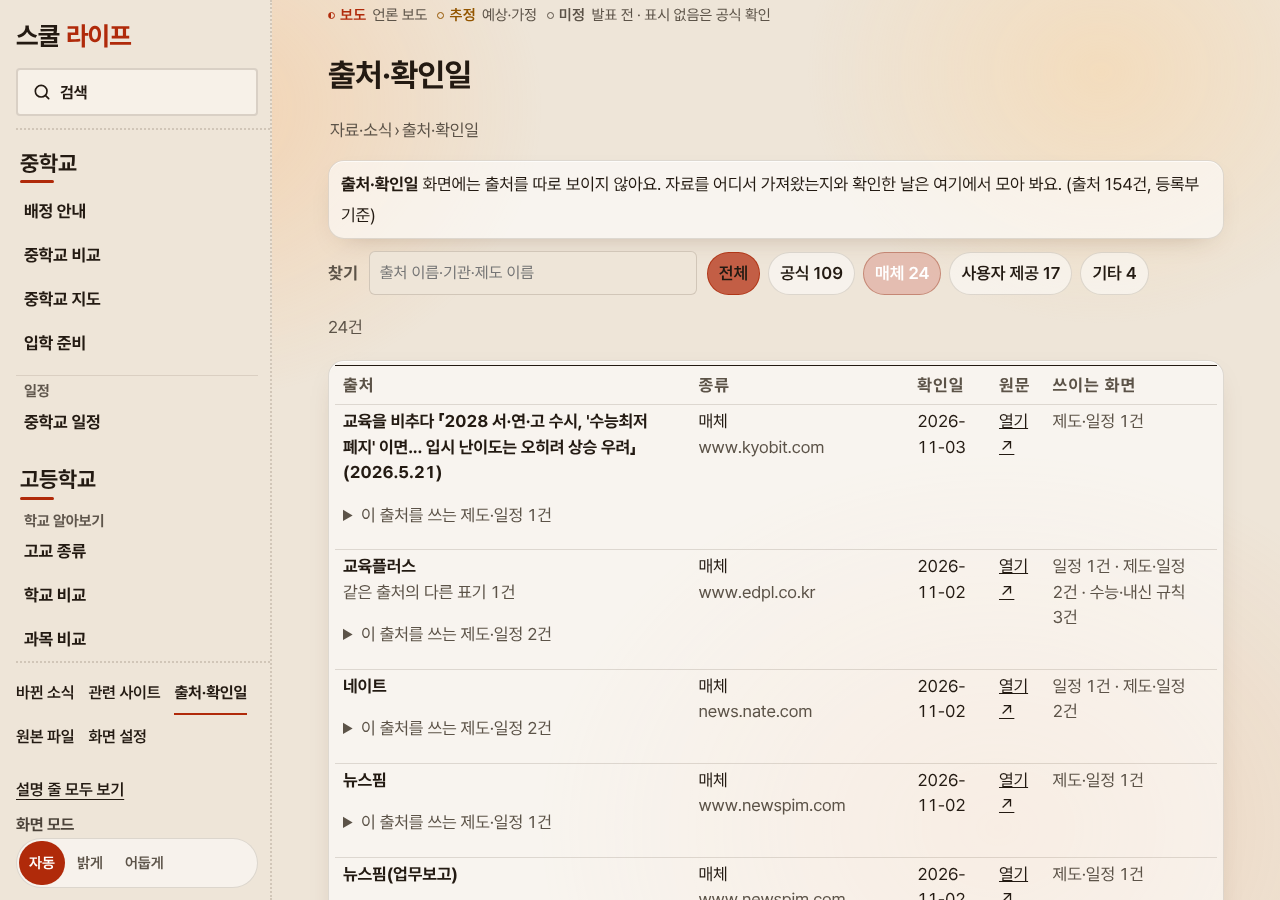
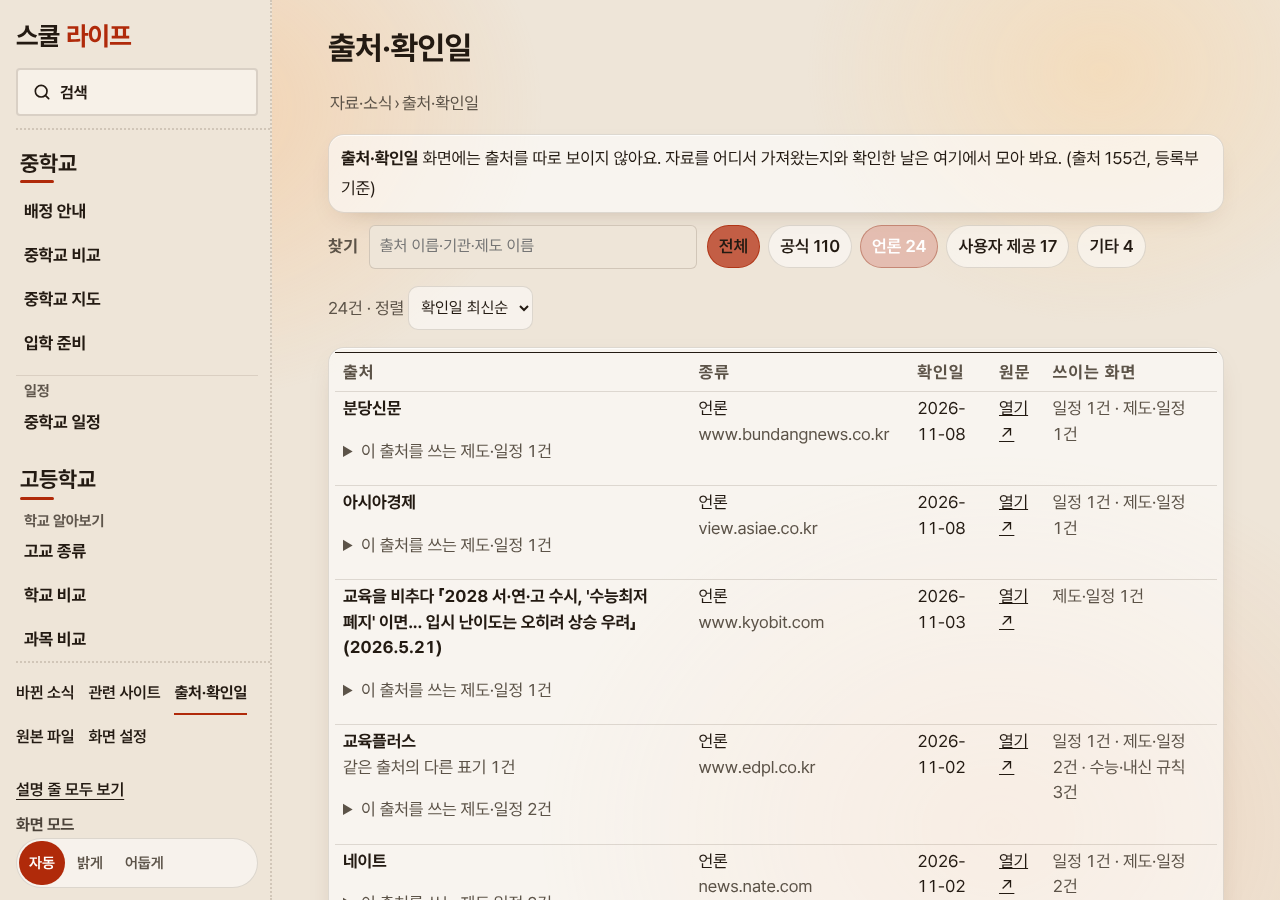
37차 A·C·D: 범례 줄 제거, 새 홈에 맞춘 검색 안내, 조사일 안내 상자 제거, 검색 오탐(어미·의학교·중학교 비교), 중학교 비교 13교 기본, 서랍 펼침, 출처 화면 라벨·정렬
Claude-Session: https://claude.ai/code/session_01GSdmVHRs72wJk6Q9aMyjCK

diff --git a/portal/search-extra.js b/portal/search-extra.js
@@ -74,7 +74,7 @@ export const GAPS = [
   { id: "adiga-link", q: "^(?!.*(맛|분식|먹|식당|카페|학원|가르)).*(어디가|adiga)", words: "어디가 링크 대입정보포털 어디가 adiga 대입 정보 포털", found: () => ({ href: "#library/links", hl: "어디가", t: "대입정보포털 어디가(외부 링크)", s: "대학별 모집요강·입시 결과를 모아 둔 공식 포털이에요. 외부 링크 모음에서 바로 열어요" }) },
   { id: "hsbf-event", q: "(외대부고|외국어대학교부설|용인외대).*(설명회|입학설명)", words: "외대부고 설명회 용인외대부고 입학설명회 외국어대학교부설 설명회 본교 설명회", found: (D) => row(D, "gg-22") && { href: "#select/curriculum?v=hs&ty=1", hl: row(D, "gg-22").title, t: row(D, "gg-22").title, s: firstSent(row(D, "gg-22").body, 100) } },
   { id: "hs-briefing-dates", q: "입학설명회.*(일정|언제|날짜|궁금)|(일정|언제).*입학설명회|설명회.*(일정|언제|날짜)", words: "입학설명회 일정 고교 입학설명회 설명회 날짜 설명회 언제 학교별 입학설명회", found: (D) => row(D, "gg-22") && { href: "#select/curriculum?v=hs&ty=1", hl: row(D, "gg-22").title, t: row(D, "gg-22").title, s: firstSent(row(D, "gg-22").body, 100) } },
-  { id: "csat-date", q: "^(?!.*(초6|초등|2033|2032|2027|2028|2029|2031|2034|성적)).*수능.*(날짜|언제|며칠|시행일|몇 ?월)", words: "수능 날짜 수능 언제 수능 시행일 수능 며칠 수능 일정", found: () => ({ href: "#home?open=soonp", t: "수능 D-day(홈)", s: "홈에서 수능까지 남은 날을 볼 수 있어요. 2030학년도 수능은 2029.11.15(목) 잠정(추정)이고, 다른 해는 대입 제도 화면의 수능 일정에서 확인해요" }) },
+  { id: "csat-date", q: "^(?!.*(초6|초등|2033|2032|2027|2028|2029|2031|2034|성적)).*수능.*(날짜|언제|며칠|시행일|몇 ?월)", words: "수능 날짜 수능 언제 수능 시행일 수능 며칠 수능 일정", found: () => ({ href: "#home?open=soonp", t: "수능 D-day(홈)", s: "홈 왼쪽(고등학교) 열의 '곧 있을 일'에서 수능까지 남은 날을 볼 수 있어요. 2030학년도 수능은 2029.11.15(목) 예정이고, 다른 해는 대입 제도 화면의 수능 일정에서 확인해요" }) },
   { id: "csat-eng", q: "수능.*영어.*(등급|몇\\s*점|컷|나뉘|구간|1등급)", words: "수능 영어 등급 수능 영어 1등급 수능 영어 절대평가 등급 구간 영어 몇 점부터 1등급", found: (D) => row(D, "adm-12") && { href: "#admission/system", hl: row(D, "adm-12").title, t: row(D, "adm-12").title, s: firstSent(row(D, "adm-12").body, 100) } },
   { id: "fail-hs", q: "(후기|외고|자사고|국제고|특목).*(떨어|불합격|탈락)", words: "후기고 떨어지면 외고 불합격 자사고 탈락 떨어지면 어디로", found: (D) => row(D, "gg-17") && { href: "#select/curriculum?v=hs&ty=1", hl: row(D, "gg-17").title, t: row(D, "gg-17").title, s: firstSent(row(D, "gg-17").body, 100) } },
   { id: "grade-abolish", q: "석차.?등급.*(폐지|초안|없어|사라)|(폐지).*석차", words: "내신 석차등급 폐지 초안 석차등급 폐지안 고교 내신 석차등급 폐지 초6 내신", found: (D) => row(D, "log-13") && { href: "#changelog", t: row(D, "log-13").title, s: firstSent(row(D, "log-13").body, 100) } },
@@ -162,24 +162,25 @@ export const GAPS = [
   // 16차: 학교급 불일치 안내·기능/과업 문장 별칭
   { id: "mid-grad-req", only: true, q: "(중학교|초등|중졸).*졸업.*(요건|조건|기준)", words: "중학교 졸업 요건 중학교 졸업 조건 초등학교 졸업 요건 졸업 기준 중학교", found: () => false, none: { href: "#schedule?t=life", t: "중학교·초등학교 졸업 요건", s: "이 포털에 아직 없어요(졸업 일정만 있어요; 고교 졸업 요건은 192학점) → 해당 학교의 학업성적관리규정과 교육청 안내에서 확인해요" } },
   { id: "find-by-address", q: "주소.*(학교|고등|고교|중학).*(찾|보기|검색)|(학교|고등|고교|중학).*주소.*(찾|검색)", words: "주소로 고등학교 찾기 주소로 학교 찾기 주소 학교 검색 우리집 근처 학교", found: (D) => (D.places || 0) > 0 && { href: "#select/curriculum?v=map", t: "학교 지도(주소·위치로 학교 찾기)", s: "학교 지도에서 학교 위치·주소를 보고 카드의 홈페이지·전화로 이어져요. 집 주소로 자동 배정을 알려 주지는 않아요" } },
+  { id: "compare-mid", q: "(중학교|중학).*(비교|견줘|견주|견줄|나란히|한꺼번에|여러)|비교.*(중학교|중학)|(문정|성복|수지|풍덕|손곡|소현|이현|정평|홍천)[가-힣]?중?(와|과|랑|하고).*(차이|비교|다른)", words: "중학교 비교 중학교들 비교 중학교 견줘 중학교 나란히 중학교 한꺼번에", found: (D) => (D.mc?.schools || []).length > 0 && { href: "#select/curriculum?v=middle&open=cmp", t: `중학교 비교(학교 ${(D.mc.schools || []).length}곳)`, s: `중학교 ${(D.mc.schools || []).length}곳의 학생 수·급식·교복을 한 표로 나란히 비교해요` } },
   { id: "compare-general", q: "(수지구?|용인)?.*(일반고|고교|고등학교).*(비교)|비교.*(일반고|고교)|학교.*비교.*(어디|어떻게|하나|할 ?수)|학교.*(두 ?곳|둘|[2-9] ?곳|여러).*비교|두 ?학교.*비교|[가-힣]{2,4}고(와|과|랑|하고)[가-힣]{2,4}고.*(차이|비교|다른)", words: "수지구 일반고 비교 일반고 비교 고교 비교 고등학교 비교 학교 비교", found: (D) => (D.hc?.schools || []).length > 0 && { href: "#select/curriculum?v=hs", t: `고교 비교(학교 ${(D.hc.schools || []).length}곳)`, s: `고교 ${(D.hc.schools || []).length}곳의 규모·입학 방식·교육과정·진학을 한 표로 비교해요` } },
-  { id: "todo-now", q: "지금.*(할 ?일|해야)|해야 ?(할|하)( ?(일|게|것))|중3.*(해야|할 ?일|꼭)|오늘.*할 ?일|이번 ?주.*할", words: "지금 해야 할 일 오늘 할 일 이번 주 할 일 당장 해야 할 것 할 일", found: () => ({ href: "#home", t: "곧 있을 일(홈)", s: "홈의 '곧 있을 일'에 가까운 일정이 날짜순으로 모여요. '보는 단계'에서 중입·고입·대입을 골라 좁힐 수 있어요" }) },
+  { id: "todo-now", q: "지금.*(할 ?일|해야)|해야 ?(할|하)( ?(일|게|것))|중3.*(해야|할 ?일|꼭)|오늘.*할 ?일|이번 ?주.*할", words: "지금 해야 할 일 오늘 할 일 이번 주 할 일 당장 해야 할 것 할 일", found: () => ({ href: "#home", t: "곧 있을 일(홈)", s: "홈의 '곧 있을 일'에 가까운 일정이 날짜순으로 모여요. 왼쪽은 고등학교, 오른쪽은 중학교 쪽이고, 더 보려면 각 열의 '일정'이나 일정 화면으로 가요" }) },
   { id: "after-assign", q: "배정.*(끝|뒤|후).*(할 ?일|준비|해야)", words: "배정 끝난 뒤 할 일 배정 후 할 일 배정 뒤 준비 배정 받은 후 해야 할 일", found: () => ({ href: "#select/curriculum?v=middle", t: "배정 뒤 준비(중학교)", s: "배정부터 등록까지 순서(등록 2027.1.4~1.7, 재배정 1.11~1.15)와 예비소집·준비물·방과후 신청은 배정 학교 공지에서 확인해요" }) },
-  { id: "by-grade6", q: "초6.*(기준|보기|화면|학년|단계)|(학년|단계|보기|기준|화면).*초6|초등 ?6", words: "초6 기준으로 보기 초6 화면 초등학교 6학년 기준 초6 보기", found: () => ({ href: "#select/curriculum?v=middle", t: "초6 기준으로 보기", s: "홈의 '보는 단계'에서 중입을 켜면 중학교 입학 준비 일정이 먼저 보이고, 중학교 화면에서 배정 절차를 볼 수 있어요" }) },
-  { id: "home-screen", q: "^(홈|홈 ?화면|처음 ?화면|메인 ?화면)$", words: "홈 홈 화면 처음 화면 메인 화면 첫 화면", found: () => ({ href: "#home", t: "홈 화면", s: "곧 있을 일·졸업 D-day·보는 단계·먼저 읽어 둘 안내가 모여 있어요" }) },
+  { id: "by-grade6", q: "초6.*(기준|보기|화면|학년|단계)|(학년|단계|보기|기준|화면).*초6|초등 ?6", words: "초6 기준으로 보기 초6 화면 초등학교 6학년 기준 초6 보기", found: () => ({ href: "#select/curriculum?v=middle", t: "초6 기준으로 보기", s: "홈 오른쪽(중학교) 열에 중학교 입학 준비 일정이 모여 있고, 중학교 화면에서 배정 절차를 볼 수 있어요" }) },
+  { id: "home-screen", q: "^(홈|홈 ?화면|처음 ?화면|메인 ?화면)$", words: "홈 홈 화면 처음 화면 메인 화면 첫 화면", found: () => ({ href: "#home", t: "홈 화면", s: "왼쪽 고등학교·오른쪽 중학교로 나뉘어 곧 있을 일(졸업 D-day 포함)·일정·소개가 모여 있어요" }) },
   { id: "glossary-page", q: "용어 ?사전|용어 ?목록|용어 ?풀이", words: "용어사전 용어 사전 용어 목록 용어 풀이 낱말 뜻", found: (D) => (D.gl || 0) > 0 && { href: "#home", t: "용어 풀이", s: `글 속 ⓘ를 누르면 용어 ${D.gl}개의 뜻과 출처가 떠요. 따로 목록 화면은 없어요` } },
-  { id: "photo-add", q: "사진.*(넣|추가|올|등록|바꾸)", words: "사진 넣기 사진 추가 사진 올리기 졸업 사진 입학 사진 D-day 사진", found: () => ({ href: "#home?open=soonp", t: "사진 넣기(졸업·입학 D-day)", s: "홈의 졸업·입학 D-day 카드에서 '사진 넣기'를 누르면 사진을 넣을 수 있어요. 사진은 이 브라우저에만 저장돼요" }) },
+  { id: "photo-add", q: "사진.*(넣|추가|올|등록|바꾸)", words: "사진 넣기 사진 추가 사진 올리기 졸업 사진 입학 사진 D-day 사진", found: () => ({ href: "#home?open=soonp", t: "사진 넣기(졸업·입학 D-day)", s: "홈 '곧 있을 일'의 졸업·입학 D-day 카드에서 '사진 넣기'를 누르면 사진을 넣을 수 있어요. 사진은 이 브라우저에만 저장돼요" }) },
   { id: "app-install", q: "앱 ?(설치|깔|다운)|홈 ?화면에 ?추가|바로가기 ?만들|홈 ?화면.*앱|앱.*홈 ?화면|앱처럼|앱으로", words: "앱 설치 앱 다운로드 홈 화면에 추가 바로가기 만들기 설치", found: () => ({ href: "#home", t: "앱처럼 쓰기(홈 화면에 추가)", s: "따로 설치하는 앱은 없고 브라우저에서 바로 열어요. 브라우저 메뉴의 '홈 화면에 추가'로 바로가기를 만들 수 있어요" }) },
   // 17차: 다른 지역·기능 별칭·글자 크기
   { id: "other-region", only: true, q: "(분당|성남|수원|화성|안양|평택|판교|일산|고양|부천|인천|하남|동탄|광교|강남|서초|송파|의정부|파주|김포|시흥|안산|대구|부산|대전|울산|세종(?!과학|한성|영재)|제주|충북|충남|전북|전남|경북|경남|강원)(?!대).*(고교|고등|일반고|중학|학교|학군|배정|입학|목록|전형|규정|고입|입시|제도|일정|내신|원서|접수|과학고|후기|전기|자사|외고|영재|모집|등록|추첨|과학|마이스터|특성화)", words: "분당 고등학교 목록 수원 일반고 성남 중학교 다른 지역 학교 화성 안양 평택 판교 일산 고양 부천 인천", found: () => false, none: (D) => ({ href: "#select/curriculum?v=map", t: "다른 지역 학교", s: `이 포털은 용인(수지구 중심)만 다뤄요${(D.hc?.schools || []).length && (D.mc?.schools || []).length ? `: 고교 ${D.hc.schools.length}곳·중학교 ${D.mc.schools.length}곳이 용인이라` : ": 용인 학교만 있어서"} 다른 지역 학교·규정은 없어요 → 그 지역 교육지원청·경기도교육청 고입 안내·학교알리미에서 찾아요` }) },
   { id: "school-map", q: "지도.*(학교|보기|찾|위치)|학교.*(지도|위치).*(보|찾)|학교 ?위치|(집|우리 ?집|근처|가까운).*학교", words: "학교 지도 보기 학교 지도에서 학교 찾기 학교 위치 보기 지도로 학교 찾기", found: (D) => (D.places || 0) > 0 && { href: "#select/curriculum?v=map", t: "학교 지도", s: `학교 위치·주소를 지도에서 보고 카드의 홈페이지·전화로 이어져요(초·중·고 ${D.places}곳)` } },
   { id: "plan-make", q: "^(?!.*학원).*(과목.*(계획).*(저장|보관)|계획표|시간표.*(짜|만들)|(과목|선택).*(계획).*(만들|짜|세우|작성)|내 ?계획|(내가|내).*(고른|듣고 ?싶은|선택한).*(과목).*(모아|보고|짜|시간표))", words: "과목 선택 계획표 만들기 내 계획표 과목 계획 짜기 선택과목 계획 고교 계획표", found: () => ({ href: "#planner/plan", t: "내 계획표(과목 선택 계획)", s: "후보 과목을 골라 학기별 계획표를 만들고 대학 요건과 맞춰 볼 수 있어요(브라우저에만 저장)" }) },
-  { id: "csat-dday", q: "d-?day|디데이|남은 ?(일|날)|며칠 ?남", words: "수능 D-day 수능 디데이 수능까지 남은 날 남은 일수 D-day", found: () => ({ href: "#home", hl: "학년도 수능", t: "수능 D-day(홈)", s: "홈 맨 위에 2030학년도 수능(2029.11.15 잠정)까지 남은 날이 있어요. 졸업·입학 D-day도 같이 보여요" }) },
+  { id: "csat-dday", q: "d-?day|디데이|남은 ?(일|날)|며칠 ?남", words: "수능 D-day 수능 디데이 수능까지 남은 날 남은 일수 D-day", found: () => ({ href: "#home", hl: "학년도 수능", t: "수능 D-day(홈)", s: "홈 왼쪽(고등학교) 열 '곧 있을 일'에 2030학년도 수능(2029.11.15 예정)까지 남은 날이 있어요. 졸업·입학 D-day도 같이 보여요" }) },
   { id: "font-size", only: true, q: "글자 ?(크기|키|확대|작)|글씨|폰트", words: "글자 크기 글자 키우기 글씨 크게 폰트 크기 글자 확대", found: () => ({ href: "#library/settings", hl: "화면 모드", t: "글자 크기", s: "글자는 처음부터 16px 이상으로 맞춰 두었어요. 더 키우려면 브라우저 확대(컴퓨터 Ctrl/⌘ +, 휴대폰 화면 확대)를 쓰세요" }) },
   // 19차: 골드셋에서 드러난 공백 안내
   { id: "seoul-mid", only: true, q: "서울.*(중학교|중학|초등)", words: "서울 중학교 배정 서울 초등학교 서울 중학교 입학", found: () => false, none: { href: "#schedule?t=hs", t: "서울 중학교 배정", s: "이 포털에 아직 없어요(서울은 고입 일정만 있고, 중학교 배정은 용인만 다뤄요) → 서울시교육청·해당 교육지원청 안내에서 확인해요" } },
   { id: "ged", only: true, q: "검정고시", words: "검정고시 일정 검정고시 접수 검정고시 원서", found: () => false, none: { href: "#library/links", t: "검정고시", s: "이 포털에 아직 없어요 → 시·도교육청 검정고시 공고에서 일정과 접수 방법을 확인해요" } },
-  { id: "med-quota", only: true, q: "의대|의과대|약대|한의대|치대|수의대|의학", words: "의대 정원 의과대학 약대 한의대 치대 수의대", found: () => false, none: { href: "#admission/system", t: "의대·약대 정원·합격 인원은 이 포털에 아직 없어요", s: "이 포털에 아직 없어요(대입 전형 구조와 일정까지 다뤄요) → 대학별 모집요강·대학어디가에서 확인해요" } },
+  { id: "med-quota", only: true, q: "의대|의과대|약대|한의대|치대|수의대|의학(?!교)", words: "의대 정원 의과대학 약대 한의대 치대 수의대", found: () => false, none: { href: "#admission/system", t: "의대·약대 정원·합격 인원은 이 포털에 아직 없어요", s: "이 포털에 아직 없어요(대입 전형 구조와 일정까지 다뤄요) → 대학별 모집요강·대학어디가에서 확인해요" } },
   { id: "club", only: true, q: "동아리", words: "동아리 활동 동아리 가입 동아리 종류 학교 동아리", found: () => false, none: { href: "#select/curriculum?v=map", t: "동아리 활동", s: "이 포털에 아직 없어요 → 학교 누리집·학교알리미(학교 특색 활동)에서 확인해요" } },
   { id: "avg-grade", only: true, q: "(학교|우리 ?학교).*평균 ?등급|평균 ?등급|학교 ?평균", words: "학교 평균 등급 학교 평균 성적 평균 내신", found: () => false, none: { href: "#library/links", t: "학교별 평균 등급", s: "이 포털에 아직 없어요(내신은 5등급 상대평가라는 규칙만 있어요) → 학교알리미 공시(성적 분포)에서 확인해요" } },
   { id: "print", q: "인쇄|프린트|출력|pdf", words: "화면 인쇄 인쇄하기 프린트 출력 PDF 저장", found: () => ({ href: "#home", t: "화면 인쇄", s: "브라우저 메뉴의 인쇄(Ctrl/⌘ + P)를 쓰면 접힌 내용까지 펼쳐서 인쇄돼요. 인쇄 화면에서 PDF로 저장할 수도 있어요" }) },

diff --git a/portal/search.js b/portal/search.js
@@ -42,7 +42,7 @@ const routeOf = (r) => (r.topic === "gg-hs-entry" && !(r.events && r.events.leng
   : ROUTE[r.topic] || (r.topic.startsWith("admission") ? "#admission/system" : "#home"));
 
 // 같은 뜻의 말(학부모가 쓰는 말 → 화면에 있는 말). 앞 말을 찾으면 뒤 말도 같이 찾는다.
-const SYN = [["학교장추천", "고교장추천", "교장추천", "학교장 추천", "고교장 추천"], ["교과서", "검정교과서", "검정 교과서"], ["서성한", "서강대", "성균관대", "한양대"], ["중경외시", "중앙대", "경희대", "한국외대", "서울시립대"], ["서울대", "snu"], ["성균관대", "skku"], ["서울시립대", "uos"], ["포스텍", "postech", "포항공대", "포항공과대학교"], ["카이스트", "kaist", "한국과학기술원"], ["한양대", "한대"], ["중앙대", "중앙"], ["고입전형포털", "satp"], ["자유학기", "시험 안 보는 학기", "시험안보는학기"], ["kice", "평가원", "한국교육과정평가원"], ["설대", "서울대", "서울대학교"], ["연고대", "연세대 고려대"], ["지균", "지역균형", "지역균형전형"], ["논서술형", "서논술형", "서·논술형"], ["봉사활동", "봉사"], ["영재고", "영재학교"], ["자유학년제", "자유학기", "자유학기제", "자유학년"], ["sky", "스카이", "서울대", "연세대", "고려대"], ["과탐", "과학탐구"], ["사탐", "사회탐구"], ["전형유형", "전형 유형", "전형 구분", "전형유형 구분"], ["서연고", "서울대", "연세대", "고려대"], ["포스텍", "포항공과대학교", "포항공대"], ["외대", "한국외국어대학교", "한국외대"], ["창체", "창의적 체험활동", "창의적체험활동"], ["화작", "화법과 작문", "화법과작문"], ["언매", "언어와 매체", "언어와매체"], ["성대", "성균관대", "성균관대학교"], ["연대", "연세대", "연세대학교"], ["중대", "중앙대", "중앙대학교"], ["고대", "고려대", "고려대학교"], ["서울시립대", "시립대", "서울시립대학교"], ["시뮬레이션", "시뮬레이터"], ["심리학", "인간과 심리"], ["전후기", "전기 후기", "전기·후기"], ["급식", "점심", "점심 방식", "중식", "점심시간 식사"], ["다자녀", "세 자녀", "세자녀", "다둥이", "삼남매"], ["국영수", "국·수·영", "국수영"], ["예비소집", "예비소집일", "예비소집 날짜"], ["생활기록부", "학교생활기록부", "생기부", "학생부"], ["준비물", "서류", "원서"], ["원서", "원서접수", "접수", "지원"], ["상현", "상현중", "상현초", "상현고"], ["성복", "성복중", "성복초", "성복고"], ["설명회", "배정 설명회", "입학설명회"], ["배정", "평준화", "추첨", "배정원서"], ["수시", "학종", "학생부종합"], ["정시", "수능"], ["내신", "5등급", "성적"], ["학점", "학점제", "고교학점제"], ["통학", "거리", "지도"], ["특목", "과학고", "외고", "국제고", "자사고", "영재"], ["날짜", "일정", "시행", "언제"], ["합격", "배정", "추첨"], ["권장과목", "이수 권장", "전공 연계"], ["학생수", "학생 수", "인원"], ["선택과목", "탐구 선택", "문과 이과", "성향"], ["진학", "진학 현황", "합격 실적"], ["시험", "지필", "수행평가", "평가계획"], ["졸업식", "중학교 졸업", "초등학교 졸업"], ["외대부고", "외대부설", "한국외국어대학교부설", "한국외대부고"], ["수능일", "수능 날짜", "수능 시행일", "수능 시행"], ["졸업일", "졸업식", "중학교 졸업", "초등학교 졸업"], ["수능 시간", "시험시간", "시험 시간", "영역별 시간"], ["자유학기", "시험 없는 학기", "자유학년"], ["출결", "출결 감점", "출결 점수", "결석 감점"], ["학비", "수업료", "등록금", "비용", "가격", "낙찰가"], ["입학 서류", "준비물", "제출 서류", "서류"], ["카이스트", "한국과학기술원", "KAIST"], ["포스텍", "포항공과대학교", "포항공대"], ["서울대", "서울대학교"], ["연세대", "연세대학교"], ["고려대", "고려대학교", "고대"], ["서강대", "서강대학교"], ["성균관대", "성균관대학교", "성대"], ["한양대", "한양대학교"], ["중앙대", "중앙대학교"], ["경희대", "경희대학교"], ["외대", "한국외국어대학교", "한국외대"], ["시립대", "서울시립대학교", "서울시립대"]];
+const SYN = [["학교장추천", "고교장추천", "교장추천", "학교장 추천", "고교장 추천"], ["교과서", "검정교과서", "검정 교과서"], ["서성한", "서강대", "성균관대", "한양대"], ["중경외시", "중앙대", "경희대", "한국외대", "서울시립대"], ["서울대", "snu"], ["성균관대", "skku"], ["서울시립대", "uos"], ["포스텍", "postech", "포항공대", "포항공과대학교"], ["카이스트", "kaist", "한국과학기술원"], ["한양대", "한대"], ["중앙대", "중앙"], ["고입전형포털", "satp"], ["자유학기", "시험 안 보는 학기", "시험안보는학기"], ["kice", "평가원", "한국교육과정평가원"], ["설대", "서울대", "서울대학교"], ["연고대", "연세대 고려대"], ["지균", "지역균형", "지역균형전형"], ["논서술형", "서논술형", "서·논술형"], ["봉사활동", "봉사"], ["영재고", "영재학교"], ["자유학년제", "자유학기", "자유학기제", "자유학년"], ["sky", "스카이", "서울대", "연세대", "고려대"], ["과탐", "과학탐구"], ["사탐", "사회탐구"], ["전형유형", "전형 유형", "전형 구분", "전형유형 구분"], ["서연고", "서울대", "연세대", "고려대"], ["포스텍", "포항공과대학교", "포항공대"], ["외대", "한국외국어대학교", "한국외대"], ["창체", "창의적 체험활동", "창의적체험활동"], ["화작", "화법과 작문", "화법과작문"], ["언매", "언어와 매체", "언어와매체"], ["성대", "성균관대", "성균관대학교"], ["연대", "연세대", "연세대학교"], ["중대", "중앙대", "중앙대학교"], ["고대", "고려대", "고려대학교"], ["서울시립대", "시립대", "서울시립대학교"], ["시뮬레이션", "시뮬레이터"], ["심리학", "인간과 심리"], ["전후기", "전기 후기", "전기·후기"], ["급식", "점심", "점심 방식", "중식", "점심시간 식사"], ["다자녀", "세 자녀", "세자녀", "다둥이", "삼남매"], ["국영수", "국·수·영", "국수영"], ["예비소집", "예비소집일", "예비소집 날짜"], ["생활기록부", "학교생활기록부", "생기부", "학생부"], ["준비물", "서류", "원서"], ["원서", "원서접수", "접수", "지원"], ["상현", "상현중", "상현초", "상현고"], ["성복", "성복중", "성복초", "성복고"], ["설명회", "배정 설명회", "입학설명회"], ["배정", "평준화", "추첨", "배정원서"], ["수시", "학종", "학생부종합"], ["정시", "수능"], ["내신", "5등급", "성적"], ["학점", "학점제", "고교학점제"], ["통학", "거리", "지도"], ["특목", "과학고", "외고", "국제고", "자사고", "영재"], ["비교", "견줘", "견주", "견줄", "나란히", "한꺼번에"], ["날짜", "일정", "시행", "언제"], ["합격", "배정", "추첨"], ["권장과목", "이수 권장", "전공 연계"], ["학생수", "학생 수", "인원"], ["선택과목", "탐구 선택", "문과 이과", "성향"], ["진학", "진학 현황", "합격 실적"], ["시험", "지필", "수행평가", "평가계획"], ["졸업식", "중학교 졸업", "초등학교 졸업"], ["외대부고", "외대부설", "한국외국어대학교부설", "한국외대부고"], ["수능일", "수능 날짜", "수능 시행일", "수능 시행"], ["졸업일", "졸업식", "중학교 졸업", "초등학교 졸업"], ["수능 시간", "시험시간", "시험 시간", "영역별 시간"], ["자유학기", "시험 없는 학기", "자유학년"], ["출결", "출결 감점", "출결 점수", "결석 감점"], ["학비", "수업료", "등록금", "비용", "가격", "낙찰가"], ["입학 서류", "준비물", "제출 서류", "서류"], ["카이스트", "한국과학기술원", "KAIST"], ["포스텍", "포항공과대학교", "포항공대"], ["서울대", "서울대학교"], ["연세대", "연세대학교"], ["고려대", "고려대학교", "고대"], ["서강대", "서강대학교"], ["성균관대", "성균관대학교", "성대"], ["한양대", "한양대학교"], ["중앙대", "중앙대학교"], ["경희대", "경희대학교"], ["외대", "한국외국어대학교", "한국외대"], ["시립대", "서울시립대학교", "서울시립대"]];
 // 문장형 질의 정리: 조사·어미·의도 동사(바꾸고·싶어요·가려면 …)를 떼고 핵심어만 남긴다. 학교 이름 판정과 검색이 모두 이 결과를 쓴다.
 const VERB_ONLY = /^(바꾸고|날이|날은|날첫째|둘째|셋째|넷째|다섯째|반드시|채워야|채워|채우|몇월|몇일|몇시|몇년|몇번|몇학점|줄어드|줄어드는|줄어들|줄어요|늘어나|늘어나는|늘어요|넘나|넘는|넘어요|달라|달라지|달라져|달라요|궁금|열어주면|안열어주면|빠지|빠져|빠지나|빠지는|빨리|마칠|마치|쓸|써요|어디서|언제쯤|쯤|바꿔|바꾸|바꾸는|보고|보기|보는|찾고|찾아|찾는|알려줘|알려|알려주세요|알려줘요|싶어요|싶은데|하려면|가려면|가고|해요|해줘|줘|주세요|어떻게|어디|언제|뭐|무엇|뭐예요|어느|어떤|있어요|없어요|있나요|돼요|되나요|할까요|가요|와요|있는|없는|갈|수|걸|것|거|있을까요|되는|하는|하고|싶어|싶다|싶습니다|좀|저|제가|내가|뭐야|뭔가요|뭔데|무엇인가요|해야|해야해요|해야하나요|하나요|하면|돼|되나|가면|이야|인가|맞아요|맞나요|무슨|말이에요|얼마나|얼마|며칠|어디서|어디에|어디에서|쓰고|내고|우리|아이|지금|시기|될까요|돼요|하나|뭘|어떻게요|알수|모르겠어요|모르겠|모르겠는데|모르는|뭐하는|하는곳|무슨|기관|누구|요구|어딘가요|어딘가|어딘지|어디인가요|것들|알려주|알고|올해|안에|꼭|게|링크|바로가기|싶은|등을|등이|등|어디어디|바뀔|바뀌나|바뀌는|가능성|모자라면|모자란|부족하면|일을|할|들어야|들어|나오|나오는|나와요|넣어|써야|내야|나와|받나요|받아요|받는|받으면|있을까|있나|없나|뭐가|뭐예요|누가)$/;
 const ENDINGS = /((?<=[가-힣]{2})(?<!학교)별|(?<=[가-힣]{2})란|이나|인데|(?<=[가-힣]{2})(?:한|된|할|가고|오고)|끼리|이란|이라는|라는|이라면|다면|만들고싶어요|만들고|만들어줘|만들어|만들기|만드는|들어가려면|하려면|가려면|바꾸고싶어요|보고싶어요|알고싶어요|싶어요|싶은데|해주세요|해줘요|해줘|알려줘요|알려줘|알려주세요|주세요|해요|이에요|예요|인가요|있나요|없나요|할까요|되나요|돼요|나요|까요|는데|은데|려면|으로|에서|에게|한테|에는|에도|까지|부터|이랑|이고|이며|바꾸고|바꿔|하고|은요|는요|인가요|뭔가요|하나요|했나요|인데요|입니까|습니까|ㅂ니까|어떤가요|어때요|좋을까요|궁금해요|궁금합니다|가능한가요|가능해요|가능할까요|합니까|하는지|되는지|있는지|있을까요|싶습니다|있어요|없어요|될까요|할까요|하죠|되죠|인지|되고|하면|으면|이면|이라서|이라는데|라는데|다는데|다던데|던데|는지|은지|ㄴ지|나요|가요|어요|아요|세요|죠)$/;
@@ -153,7 +153,7 @@ export function makeSearcher(store) {
     } else {
       // 이 포털에 없는 학교(예: 죽전중·풍덕중): 학교 이름 모양의 낱말이 어떤 학교 이름과도 안 맞으면 알려 준다
       const LV = { 중: ["middle", "중학교"], 고: ["high", "고등학교"], 초: ["elementary", "초등학교"] };
-      for (const t of words) { const m = /^([가-힣]{2,5})(중학교|고등학교|초등학교|중|고|초)$/.exec(t); if (!m || /(신고|공고|광고|보고|통고|예고|사고|경고|출고|원고|항고|상고|신초|최초|개중|도중|기중|동중|전입신고)$/.test(t) || /^(언제|어디|어느|무엇|뭐|누구|얼마|어떻|어떤|이러|그러|저러|이래|그래|저래|아니|또는|그리|하지|되지|있지|없지|이고|그리고)$/.test(m[1]) || /(하|되|싶|있|없|보|알|해|서|가|오|나|내|주|받|쓰|열|떨|들|살|찾|맞|넣|놓|같|끝|돌|걸|골|르|리|아|어|지|다|라|네|죠|요|면|며|니|까|게|듯|던|든|는|은|을|를)$/.test(m[1]) || /^(자공|자율|자사|일반|특성화|마이스터|자사|외|국제|과학|영재|예술|체육|특목|자율|자율형|자율형공립|자율형사립|공립|사립|전기|후기|평준화|비평준화|외국어|명문|상위|진학|입시|특수|대안|각종|모든|우리|근처|인근|다른|광역|지역|학군|중학|고등|초등|특성화|연합|통합)$/.test(m[1])) continue; const lv = LV[m[2][0]]; if (!lv || SYN.some((g) => g.includes(t)) || data.guide.some((g) => !g.q && ng(g).includes(norm(t))) || data.policy.some((r) => nr(r).includes(norm(t))) || data.places.some((x) => x.level === lv[0] && (norm(x.name).startsWith(t) || norm(x.name).startsWith(m[1])))) continue;
+      for (const t of words) { const m = /^([가-힣]{2,5})(중학교|고등학교|초등학교|중|고|초)$/.exec(t); if (!m || /(신고|공고|광고|보고|통고|예고|사고|경고|출고|원고|항고|상고|신초|최초|개중|도중|기중|동중|전입신고)$/.test(t) || /^(언제|어디|어느|무엇|뭐|누구|얼마|어떻|어떤|이러|그러|저러|이래|그래|저래|아니|또는|그리|하지|되지|있지|없지|이고|그리고)$/.test(m[1]) || /(하|되|싶|있|없|보|알|해|서|가|오|나|내|주|받|쓰|열|떨|들|살|찾|맞|넣|놓|같|끝|돌|걸|골|르|리|아|어|지|자|다|라|네|죠|요|면|며|니|까|게|듯|던|든|는|은|을|를)$/.test(m[1]) || /^(자공|자율|자사|일반|특성화|마이스터|자사|외|국제|과학|영재|예술|체육|특목|자율|자율형|자율형공립|자율형사립|공립|사립|전기|후기|평준화|비평준화|외국어|명문|상위|진학|입시|특수|대안|각종|모든|우리|근처|인근|다른|광역|지역|학군|중학|고등|초등|특성화|연합|통합)$/.test(m[1])) continue; const lv = LV[m[2][0]]; if (!lv || SYN.some((g) => g.includes(t)) || data.guide.some((g) => !g.q && ng(g).includes(norm(t))) || data.policy.some((r) => nr(r).includes(norm(t))) || data.places.some((x) => x.level === lv[0] && (norm(x.name).startsWith(t) || norm(x.name).startsWith(m[1])))) continue;
         const all = data.places.filter((x) => x.level === lv[0]).map((x) => x.name.replace(/(중학교|고등학교|초등학교)$/, m[2][0])), names = all.slice(0, 40); // 31교 전체를 보여 준다
         notes.push({ href: `#select/curriculum?v=map`, t: `${t}${(t.charCodeAt(t.length - 1) - 0xac00) % 28 ? "은" : "는"} 이 포털에 없는 학교예요`, s: `있는 ${lv[1]} ${all.length}곳: ${names.join("·")} → 없는 학교는 학교 지도나 학교알리미에서 찾아요` }); weak = true; break; }
     }

diff --git a/portal/app.js b/portal/app.js
@@ -144,21 +144,23 @@ const views = {
 
   async sources(el) { // 자료실 > 출처·확인일: 화면에서는 출처를 지웠으므로 확인할 곳은 여기 하나(출처 등록부 + 제도·일정 행의 확인일)
     const [reg, policy, schools] = await Promise.all([load("sources"), load("policy"), load("schools")]);
-    const KIND = { official: "공식", media: "매체", user: "사용자 제공", self: "자체 산출", other: "기타" };
+    const KIND = { official: "공식", media: "언론", user: "사용자 제공", self: "자체 정리", other: "기타", photo: "학교 배부 자료", school: "학교 자료" };
     const FILE = { "policy.json": "제도·일정", "events.json": "일정", "timeline.json": "큰 그림 연표", "hs-compare.json": "고교 비교", "middle-compare.json": "중학교 비교", "hs-types.json": "고교 종류", "glossary.json": "용어 설명", "places.json": "학교 지도", "exam-trends.json": "시험 현황", "rules.json": "수능·내신 규칙", "admission-rules.json": "대학 요강", "school-codes.json": "학교 코드", "middle-guide.json": "입학 준비", "middle-curriculum.json": "중학교 교과", "middle.json": "중학교 배정", "planner-rules.json": "내 계획표", "electives.json": "선택과목 현황", "subject-info.json": "과목 설명", "admission-types.json": "전형 종류", "briefings.json": "설명회 노트", "facets.json": "필터" };
     const byUrl = new Map();
     for (const r of policy) for (const u of new Set([r.sourceUrl, ...(r.sources || []).map((x) => x.url)].filter(Boolean))) { if (!byUrl.has(u)) byUrl.set(u, []); byUrl.get(u).push(r); }
     const list = [...reg.sources].sort((a, b) => String(b.checked || "").localeCompare(String(a.checked || "")) || String(a.names?.[0]).localeCompare(String(b.names?.[0]), "ko"));
     const kinds = ["official", "media", "user", "other"].filter((k) => list.some((x) => x.kind === k));
-    let q = "", kd = "";
+    let q = "", kd = "", sk = "date";
     const row = (x) => { const rows = byUrl.get(x.url) || [], files = Object.entries(x.usedIn || {}).map(([f, n]) => `${esc(FILE[f] || f.replace(/\.json$/, ""))} ${n}건`).join(" · ");
       return `<tr><td class="l"><b>${esc(x.names?.[0] || x.url || "")}</b>${(x.names || []).length > 1 ? `<div class="muted small">같은 출처의 다른 표기 ${x.names.length - 1}건</div>` : ""}${rows.length ? `<details class="srcrows"><summary>이 출처를 쓰는 제도·일정 ${rows.length}건</summary><ul>${rows.map((r) => `<li>${esc(r.title)} <span class="muted small">확인 ${esc(r.checkedAt || "-")}</span></li>`).join("")}</ul></details>` : ""}</td><td class="l">${esc(KIND[x.kind] || x.kind || "")}${x.org ? `<div class="muted small">${esc(x.org)}</div>` : ""}</td><td class="l num">${esc(x.checked || "-")}</td><td class="l">${x.url && /^https?:\/\//.test(x.url) ? `<a href="${esc(x.url)}" target="_blank" rel="noopener">열기 ↗</a>` : "-"}</td><td class="l muted small">${files}</td></tr>`; };
     const match = (x) => (!kd || x.kind === kd) && (!q || [...(x.names || []), x.org, x.url, ...(byUrl.get(x.url) || []).map((r) => r.title)].join(" ").toLowerCase().includes(q));
     el.innerHTML = `<div class="ed"><div class="ed-top"><b>출처·확인일</b> 화면에는 출처를 따로 보이지 않아요. 자료를 어디서 가져왔는지와 확인한 날은 여기에서 모아 봐요. (출처 ${list.length}건, 등록부 기준)</div>
       <div class="chipbar"><span class="flabel">찾기</span><input type="search" id="srq" placeholder="출처 이름·기관·제도 이름" aria-label="출처 찾기" style="min-height:44px;min-width:min(100%,260px);font-size:16px;padding:0 10px"><div class="chips" id="srk"><button type="button" class="chip on" data-k="" aria-pressed="true">전체</button>${kinds.map((k) => `<button type="button" class="chip" data-k="${k}" aria-pressed="false">${KIND[k]} ${list.filter((x) => x.kind === k).length}</button>`).join("")}</div></div>
-      <p class="muted" id="srn"></p><div class="tw"><table class="policy"><thead><tr><th class="l">출처</th><th class="l">종류</th><th class="l">확인일</th><th class="l">원문</th><th class="l">쓰이는 화면</th></tr></thead><tbody id="srb"></tbody></table></div>
-      <details class="srcrows"><summary>편제표 4개교 출처</summary>${schools.map((s) => `<div class="panel"><b>${esc(s.name)}</b><ul>${(s._meta?.source || []).map((x) => `<li>${x.url ? `<a href="${esc(x.url)}" target="_blank" rel="noopener">${esc(x.name)}</a>` : esc(x.name)} <span class="muted">${esc(x.kind)} · ${esc(x.retrieved || "")}</span></li>`).join("")}</ul></div>`).join("")}</details></div>`;
-    const draw = () => { const m = list.filter(match); el.querySelector("#srb").innerHTML = m.map(row).join("") || '<tr><td class="l" colspan="5">맞는 출처가 없어요.</td></tr>'; el.querySelector("#srn").textContent = `${m.length}건`; };
+      <p class="muted"><span id="srn"></span> · 정렬 <select id="srs" aria-label="정렬" style="min-height:44px;font-size:16px"><option value="date">확인일 최신순</option><option value="name">출처 이름순</option><option value="kind">종류순</option></select></p><div class="tw"><table class="policy"><thead><tr><th class="l">출처</th><th class="l">종류</th><th class="l">확인일</th><th class="l">원문</th><th class="l">쓰이는 화면</th></tr></thead><tbody id="srb"></tbody></table></div>
+      <details class="srcrows"><summary>편제표 4개교 출처</summary>${schools.map((s) => `<div class="panel"><b>${esc(s.name)}</b><ul>${(s._meta?.source || []).map((x) => `<li>${x.url ? `<a href="${esc(x.url)}" target="_blank" rel="noopener">${esc(x.name)}</a>` : esc(x.name)} <span class="muted">${esc(KIND[x.kind] || x.kind || "")} · ${esc(x.retrieved || "")}</span></li>`).join("")}</ul></div>`).join("")}</details></div>`;
+    const ord = { official: 0, media: 1, user: 2, self: 3, other: 4 }; const sorted = () => [...list].sort(sk === "name" ? (a, b) => String(a.names?.[0]).localeCompare(String(b.names?.[0]), "ko") : sk === "kind" ? (a, b) => (ord[a.kind] ?? 9) - (ord[b.kind] ?? 9) || String(b.checked || "").localeCompare(String(a.checked || "")) : (a, b) => String(b.checked || "").localeCompare(String(a.checked || "")));
+    const draw = () => { const m = sorted().filter(match); el.querySelector("#srb").innerHTML = m.map(row).join("") || '<tr><td class="l" colspan="5">맞는 출처가 없어요.</td></tr>'; el.querySelector("#srn").textContent = `${m.length}건`; };
+    el.querySelector("#srs").addEventListener("change", (e) => { sk = e.target.value; draw(); });
     el.querySelector("#srq").addEventListener("input", (e) => { q = e.target.value.trim().toLowerCase(); draw(); });
     el.querySelector("#srk").addEventListener("click", (e) => { const b = e.target.closest("[data-k]"); if (!b) return; kd = b.dataset.k; el.querySelectorAll("#srk .chip").forEach((c) => { const on = c === b; c.classList.toggle("on", on); c.setAttribute("aria-pressed", String(on)); }); draw(); });
     draw();
@@ -538,7 +540,7 @@ function addCalendar(el) {
   const s = document.createElement("section");
   s.className = "sec cal";
   s.innerHTML = `<div class="sec-h"><h2><em>캘린더</em>내 캘린더에 담기</h2></div>
-    <p class="muted small">구독하면 일정이 바뀔 때 캘린더 앱이 알아서 따라가요. 아직 확정 전인 일정은 캘린더 제목에 (추정)·(보도)가 붙어 있어요.</p>
+    <p class="muted small">구독하면 일정이 바뀔 때 캘린더 앱이 알아서 따라가요. 확정 전인 일정은 날짜가 바뀔 수 있어요.</p>
     <p class="cal-a"><a class="lnk" href="webcal://${ICS_URL}">내 캘린더에 구독</a><a class="lnk" href="data/schedule.ics" download="schedule.ics">.ics 내려받기</a></p>`;
   el.appendChild(s);
 }

diff --git a/portal/policy.js b/portal/policy.js
@@ -31,7 +31,7 @@ export function register(views, { $, esc, load, store }) {
   // 선택된 프로필(portal.profile)의 행 + 연도 없는 공통 행만 쓴다. 프로필을 바꾸면 셸이 화면을 다시 그린다.
   const curProfile = () => profileOf(loadProfile(store));
   const loadPolicy = async () => filterByProfile(await load("policy"), curProfile().id).map(plainRow); // 내부 사정 문구는 사용자 말로(plain.js)
-  const notice = () => noticeFor(curProfile());
+  const notice = () => ""; // 조사일·재확인 안내 상자는 내지 않는다(2026-11-08 확인일 표시 삭제 결정; 자료실 > 출처·확인일에서만)
   const tent = (r) => ["reported", "estimated", "unknown", "material"].includes(r?.status); // 확정이 아닌 날짜는 칩 대신 "예정"이라는 일반 낱말로만(2026-11-08 출처·상태 표시 삭제 결정)
   const badgeMain = () => ""; // 상태 칩(보도·추정·미정·확인 중)은 화면에 내지 않는다. 데이터의 status·출처는 그대로 둔다.
   const badgeNote = () => ""; // 근거·메모 버튼도 내지 않는다
@@ -182,7 +182,7 @@ const bodyHtml = (t, esc2 = esc) => {
 
   views.changelog = async (el) => {
     const rows = [...(await watchRows()), ...(await loadPolicy()).filter((r) => r.topic === "change-log")];
-    el.innerHTML = `<div class="ed"><div class="ed-top"><b>바뀐 소식</b><details><summary>자세히</summary>${notice()}</details></div>${statusSelect(rows)}<div id="ptbl"></div></div>`;
+    el.innerHTML = `<div class="ed"><div class="ed-top"><b>바뀐 소식</b></div>${statusSelect(rows)}<div id="ptbl"></div></div>`;
     filtered(el, rows, (f) => { $("#ptbl").innerHTML = logTable(rows.filter((r) => stMatch(r, f))); });
   };
 
@@ -242,7 +242,7 @@ const bodyHtml = (t, esc2 = esc) => {
     const asg = asgAll.filter((r) => r.region !== "seoul" && !r.entryYear); // 용인 평준화 구역 구성(2026학년도 기준)
     const asgNew = asgAll.filter((r) => r.region !== "seoul" && r.entryYear === 2027); // 경기 2027학년도 변경 사항
     const asgSeoul = asgAll.filter((r) => r.region === "seoul"); // 서울 참고
-    el.innerHTML = `<div class="ed"><div class="ed-top"><b>고교 유형과 전형이에요.</b><details><summary>자세히</summary>${notice()}</details></div>
+    el.innerHTML = `<div class="ed"><div class="ed-top"><b>고교 유형과 전형이에요.</b></div>
       <h2>고교 유형 ${cnt(rows.filter((r) => r.topic === "hs-types").length)}</h2>${cards(rows.filter((r) => r.topic === "hs-types"))}
       ${gg.length ? `<h2>경기 고입 안내 <small>2027학년도</small> ${cnt(gg.length)}</h2>${cards(gg)}` : ""}
       ${asg.length ? `<h2>추첨으로 배정되는 지역의 고교 배정(용인 평준화 배정) <small>2026학년도 기준 참고</small> ${cnt(asg.length)}</h2>

diff --git a/portal/nav-tree.js b/portal/nav-tree.js
@@ -24,10 +24,11 @@ const link = (it, loc, cls = "") => `<a href="${esc(hrefOf(it))}"${cls ? ` class
 // 트리 HTML: 데스크톱 사이드바와 모바일 서랍이 같은 것을 쓴다. 1단계 줄기에 2단계 가지가 선으로 이어진다.
 export const treeHtml = (loc, fold = false) => {
   // fold=true(모바일 서랍): 현재 그룹만 펴고 나머지는 머리글 한 줄(눌러서 연다). 홈은 로고·하단 바 '오늘'로, 자료·소식은 맨 아래 작은 링크로 가므로 여기엔 없다.
-  return TABS.filter((t) => t.id !== "home" && !t.foot).map((t, gi) => {
-    const items = t.groups.flatMap((g) => g.items), on = loc && loc.tab === t;
+  const shown = TABS.filter((t) => t.id !== "home" && !t.foot), anyOn = shown.some((t) => loc && loc.tab === t); // 현재 그룹이 없으면(홈·자료실) 두 그룹을 모두 펴서 연다
+  return shown.map((t, gi) => {
+    const items = t.groups.flatMap((g) => g.items), on = loc && loc.tab === t, open = on || !anyOn;
     const list = `<ul id="ntg-${gi}">${items.map((it) => `${it.sub ? `<li class="nt-sub" aria-hidden="true">${esc(it.sub)}</li>` : ""}<li>${link(it, loc)}</li>`).join("")}</ul>`;
-    if (fold) return `<section class="nt-g${on ? " on open" : ""}"><h2 class="nt-h"><button type="button" class="nt-gt" aria-expanded="${on ? "true" : "false"}" aria-controls="ntg-${gi}">${esc(t.title)}</button></h2>${list}</section>`;
+    if (fold) return `<section class="nt-g${on ? " on" : ""}${open ? " open" : ""}"><h2 class="nt-h"><button type="button" class="nt-gt" aria-expanded="${open ? "true" : "false"}" aria-controls="ntg-${gi}">${esc(t.title)}</button></h2>${list}</section>`;
     return `<section class="nt-g${on ? " on" : ""}"><h2 class="nt-h">${esc(t.title)}</h2>${list}</section>`;
   }).join("");
 };

diff --git a/portal/middle.js b/portal/middle.js
@@ -119,7 +119,7 @@ export async function middleBody(el, { load, esc, mapHref = (id) => `#select/cur
     const cd = el.querySelector("#mid-cmpd");
     if (cd) { let done = false; const fill = () => { if (done || !cd.open) return; done = true; cmpTable(el.querySelector("#mid-cmp"), { esc, title: "중학교 비교", summary: "중학교를 가로로 놓고 견줘요", stage: "중입",
       targets: mc.schools.map((s) => ({ id: s.placeId, name: s.name.replace(/중학교$/, "중"), sub: [s.values.founding?.value, s.values.coed?.value].filter(Boolean).join("·"), href: `${mapHref(s.placeId)}&lv=middle`, search: `${s.name} ${s.values.address?.value || ""}` })),
-      rows: compareRows(mc, esc), select: { key: "portal.mid.compare", param: "m", def: zs.map(({ p }) => p.id).filter((id) => mc.schools.some((s) => s.placeId === id)), defN: 4, max: 8, min: 2, always: true, addLabel: "중학교 추가·빼기" },
+      rows: compareRows(mc, esc), select: { key: "portal.mid.compare", param: "m", def: [...new Set([...zs.map(({ p }) => p.id), ...mc.schools.map((s) => s.placeId)])].filter((id) => mc.schools.some((s) => s.placeId === id)), defN: mc.schools.length, max: mc.schools.length, min: 2, always: true, addLabel: "중학교 추가·빼기" },
       emptyNext: WHERE.schoolinfo, sources: mc.schools.flatMap((sc) => Object.values(sc.values).map((v) => v?.source).filter(Boolean)) }); }; cd.addEventListener("toggle", fill); fill(); }
     densify(el, { open: [0], keep: 5, chars: 100, groups: false });
     { /* 메뉴 항목 '중학교 비교'·'입학 준비'는 같은 화면의 접이식을 열어 그 자리로 간다(open=cmp|guide) */

diff --git a/portal/index.html b/portal/index.html
@@ -78,7 +78,6 @@
 </head>
 <body>
   <a id="skip" class="skip" href="#main">본문으로 건너뛰기</a>
-  <p class="legend wrap" id="legend" aria-label="표시 안내"><span class="pst reported">보도</span> 언론 보도 <span class="pst estimated">추정</span> 예상·가정 <span class="pst unknown">미정</span> 발표 전 · 표시 없음은 공식 확인</p>
   <nav class="tabs" id="btabs" aria-label="하단 메뉴"></nav>
   <aside id="sidenav" class="sidenav" aria-label="메뉴"><div class="sd-top"><a class="wm" href="#home" aria-label="스쿨 라이프 홈">스쿨 <i>라이프</i></a><button type="button" id="srbtn" class="srbtn" aria-label="검색" title="검색 (/)"><svg viewBox="0 0 24 24" aria-hidden="true" width="20" height="20" fill="none" stroke="currentColor" stroke-width="2" stroke-linecap="round"><circle cx="11" cy="11" r="7"/><path d="M20 20l-4-4"/></svg><span>검색</span></button></div><div id="sdtree" class="sd-tree"></div><div class="sd-bot"><nav id="ntfoot" class="nt-foot" aria-label="자료와 설정"></nav><button type="button" id="nttg" class="nt-tg" aria-pressed="false">설명 줄 모두 보기</button><p class="nd-th2">화면 모드</p><div id="themesw" class="tsw" role="group" aria-label="화면 모드"></div></div></aside>
   <main id="main" class="wrap"></main>

diff --git a/portal/sw.js b/portal/sw.js
@@ -1,6 +1,6 @@
 // 서비스 워커: 정적 파일은 네트워크 우선(실패하면 캐시), 데이터 JSON은 캐시를 먼저 보여 주고 뒤에서 갱신(stale-while-revalidate).
 // 범위는 이 파일이 있는 폴더(/admissions-2030/portal/)다. 캐시 이름의 버전을 올리면 옛 캐시를 지운다.
-const VERSION = "2026-11-08-66";
+const VERSION = "2026-11-08-67";
 const STATIC = `static-${VERSION}`, DATA = `data-${VERSION}`;
 const CORE = ["./", "index.html", "style.css", "theme.css", "scrap.css", "dense.css", "glass.css", "nav-tree.css", "home2.css", "fonts/gaegu-700.woff2", "fonts/gowun-batang-700.woff2", "app.js", "menu.js", "nav-tree.js", "home.js", "profile.js", "profile-ui.js", "subject-info.js", "files.js", "policy.js", "credit.js", "school-card.js", "roadmap.js", "search.js", "pagefoot.js", "compare-table.js", "search-extra.js", "univ-match.js", "map.js", "planner.js", "stage.js", "briefing.js", "dash.js", "terms.js", "hs-compare.js", "src-ref.js", "hs-types.js", "glossary.js", "plain.js", "middle.js", "manifest.webmanifest", "icons/icon-192.png", "icons/icon-512.png", "icons/apple-touch-icon.png"];
 
